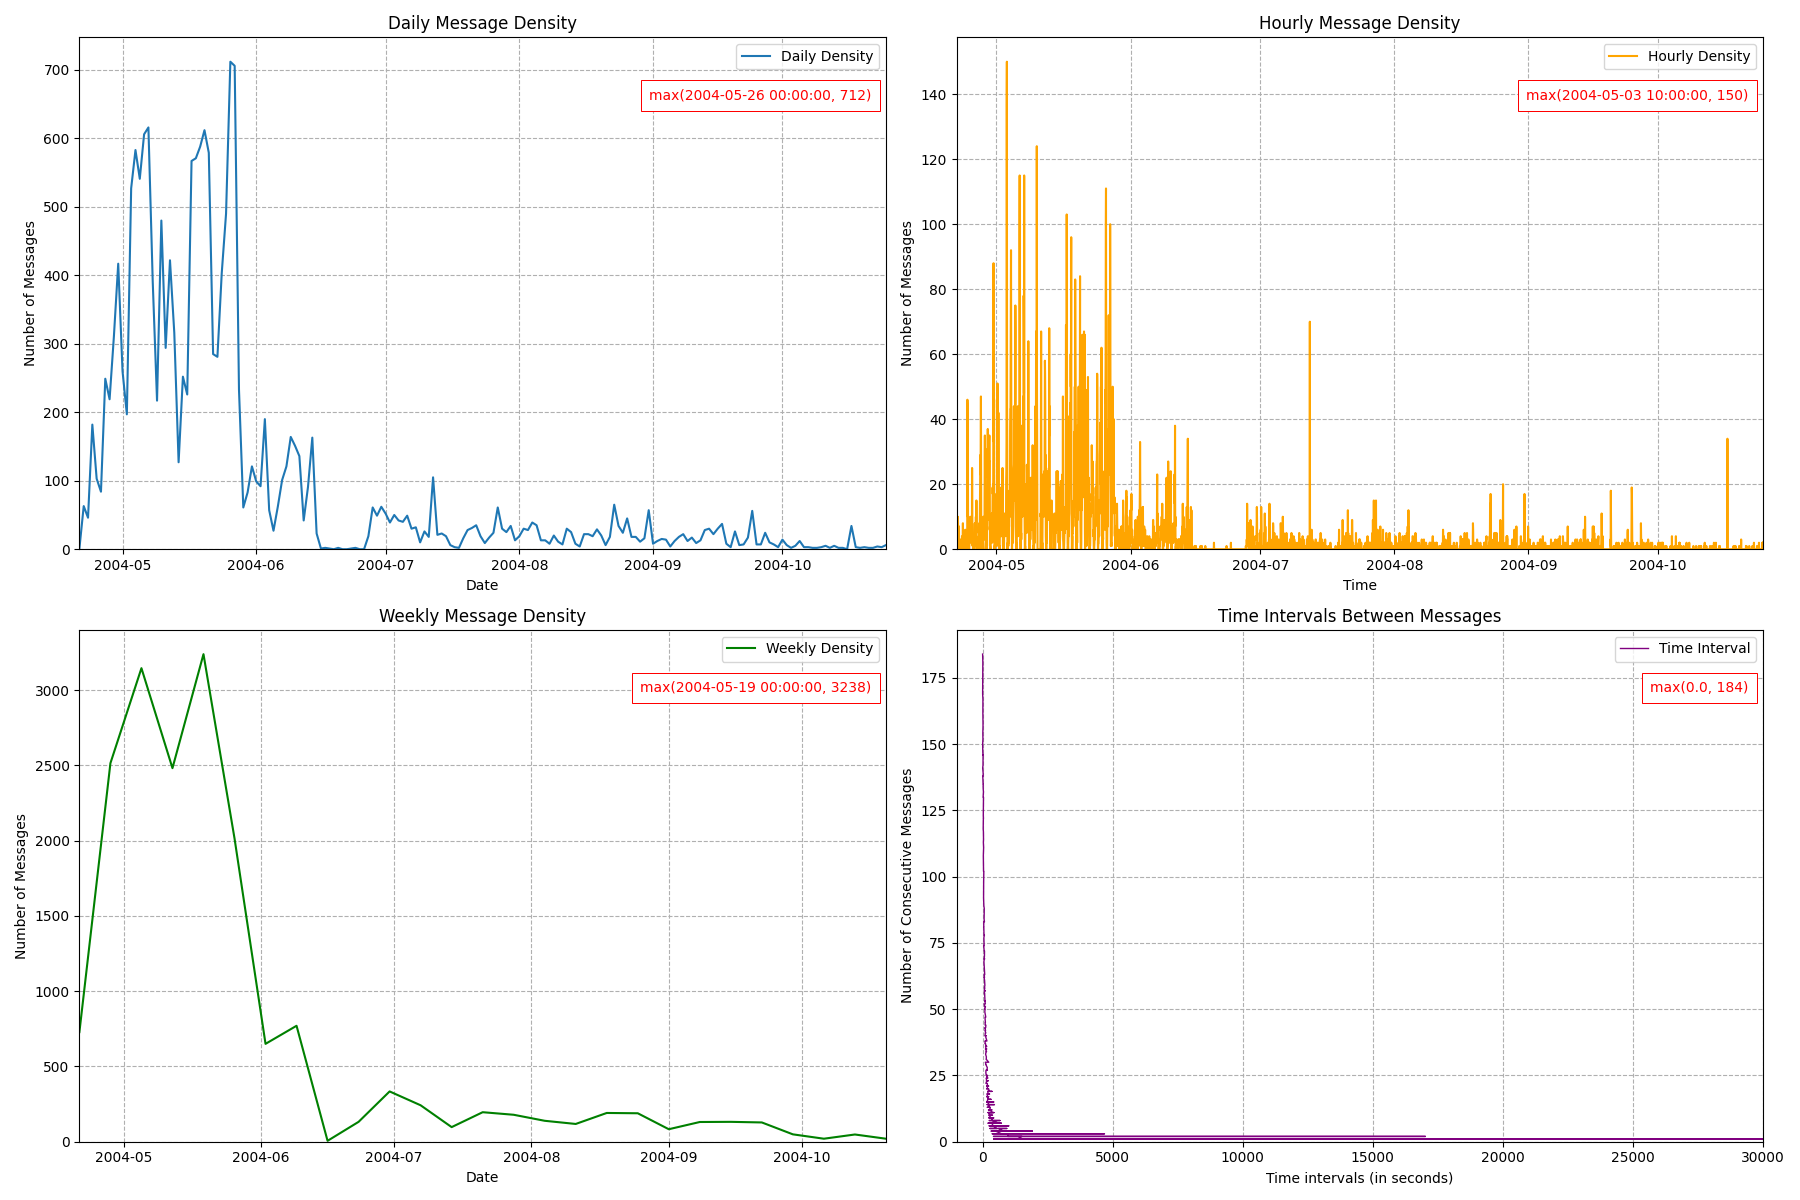
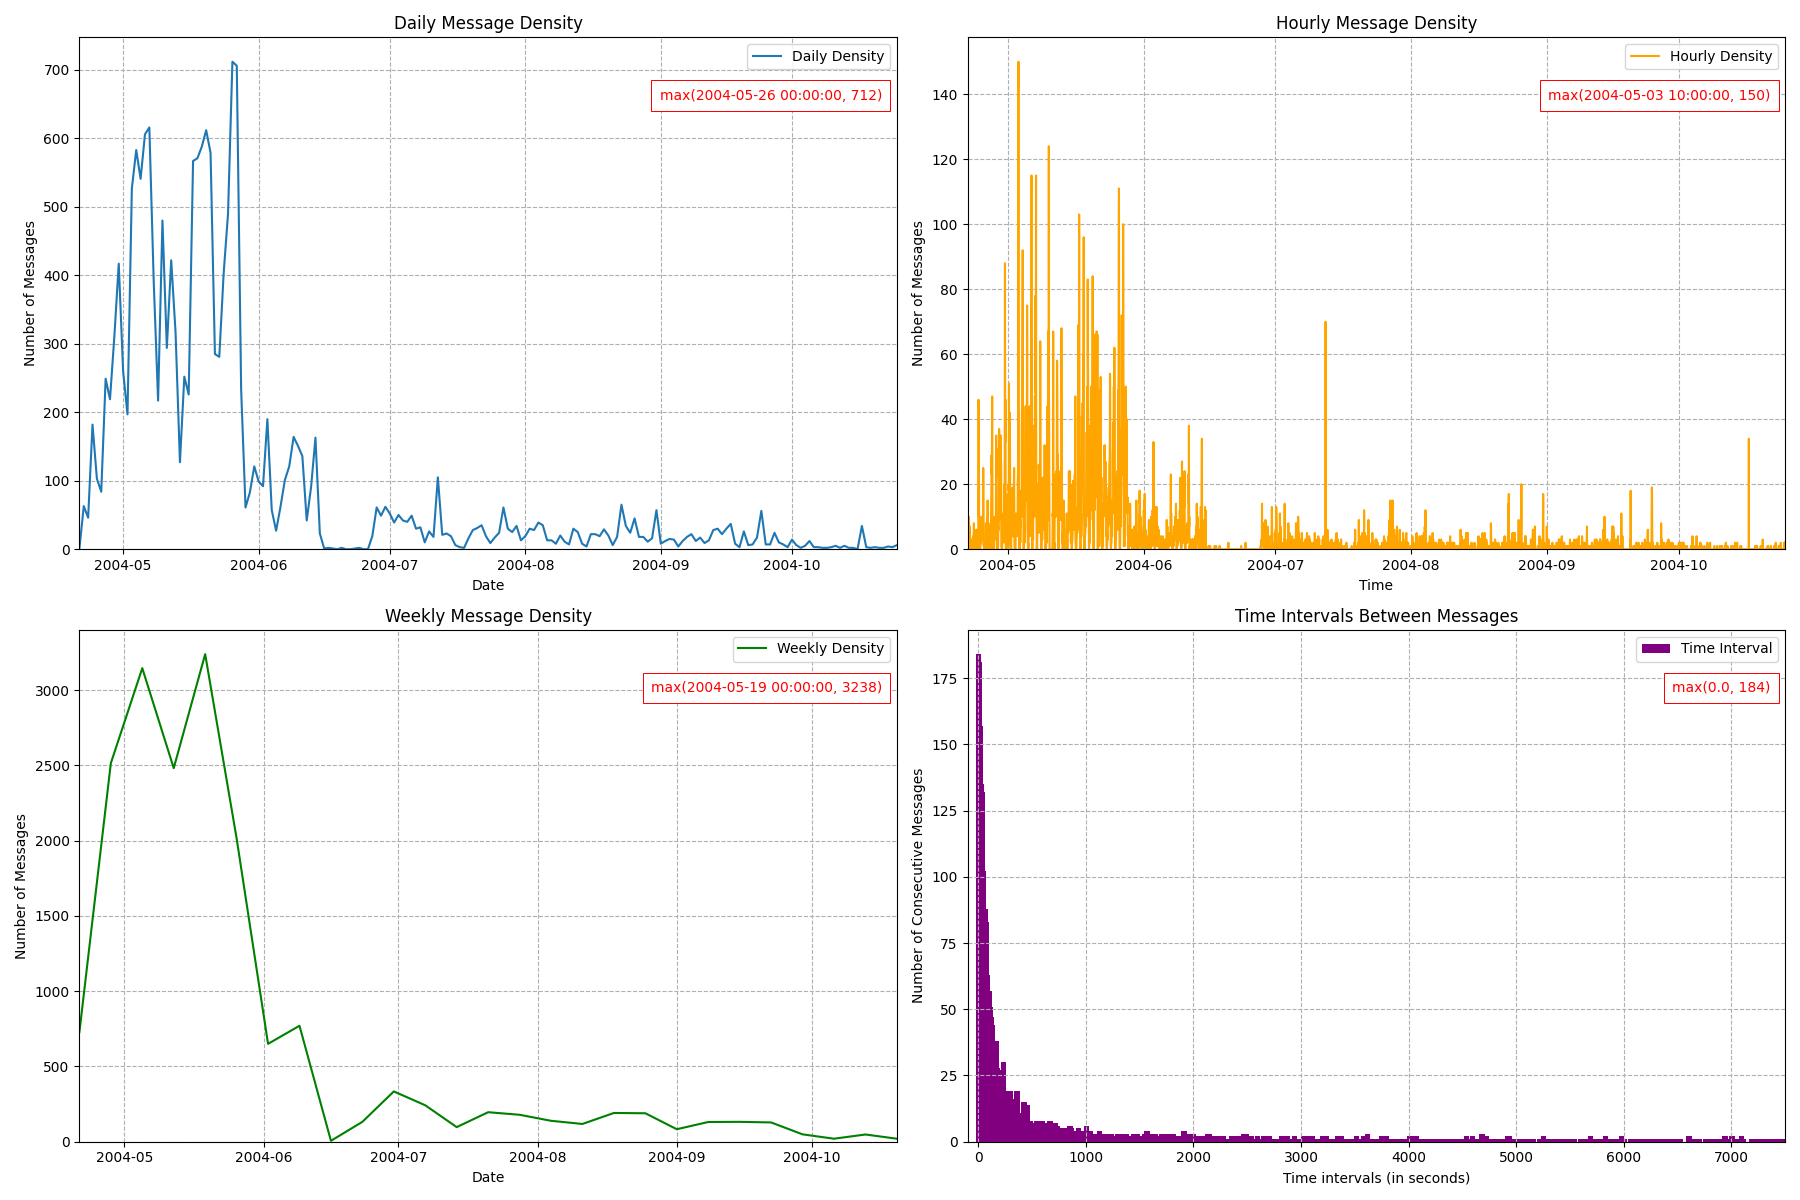
fixed time intervals plot

diff --git a/community_search.py b/community_search.py
@@ -272,7 +272,7 @@ def visualize_graph(graph: nx.Graph | nx.DiGraph | nx.MultiDiGraph, output_file:
 
     input:
         graph: the considered graph
-        output_file: the final image path where to save thw plot
+        output_file: the final image path where to save the plots
     '''
     fig = plt.figure(figsize=(55, 70))
     
@@ -318,6 +318,14 @@ def annot_max(density: pd.Series, ax=None):
     ax.annotate(text, (xmax, ymax), xytext=(0.982, 0.90), color='red', **kw)
 
 def visualize_temporal(graph: nx.Graph, dataframe: pd.DataFrame, output_file: str):
+    ''' 
+    Function to calculate and visualize some graphs' temporal metrics about messages (internal and with the periphery) 
+
+    input:
+        graph: the considered graph
+        dataframe: the pandas DataFrame with all the edges from the original graph
+        output_file: the final image path where to save the plots
+    '''
     if graph.number_of_edges() > 0:
         edges_df = nx.to_pandas_edgelist(graph)
         
@@ -369,12 +377,12 @@ def visualize_temporal(graph: nx.Graph, dataframe: pd.DataFrame, output_file: st
         annot_max(week_density, axes[1, 0])
 
         # Plot time intervals
-        axes[1, 1].plot(intervals.index, intervals.values, label='Time Interval', color='purple', lw=1)
+        axes[1, 1].bar(intervals.index.to_list(), intervals.values.tolist(), label='Time Interval', color='purple', width=50.0)
         axes[1, 1].set_title('Time Intervals Between Messages')
         axes[1, 1].set_xlabel('Time intervals (in seconds)')
         axes[1, 1].set_ylabel('Number of Consecutive Messages')
         axes[1, 1].legend()
-        axes[1, 1].set_xlim(left=-1000, right=30000)
+        axes[1, 1].set_xlim(left=-100, right=7500)
         axes[1, 1].set_ylim(bottom=0)
         axes[1, 1].grid(visible=True, linestyle='--')
         annot_max(intervals, axes[1, 1])
@@ -382,8 +390,6 @@ def visualize_temporal(graph: nx.Graph, dataframe: pd.DataFrame, output_file: st
         plt.tight_layout()
         plt.savefig('./graph_plots/' + output_file + '.png', format='PNG')
         plt.close()
-    
-    return
 
 def main():
     '''
